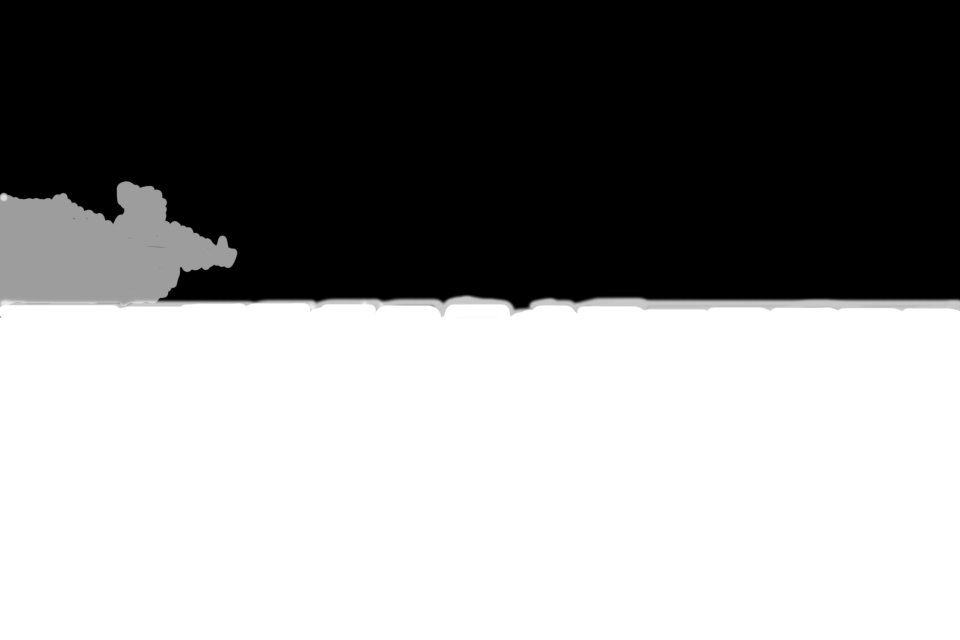
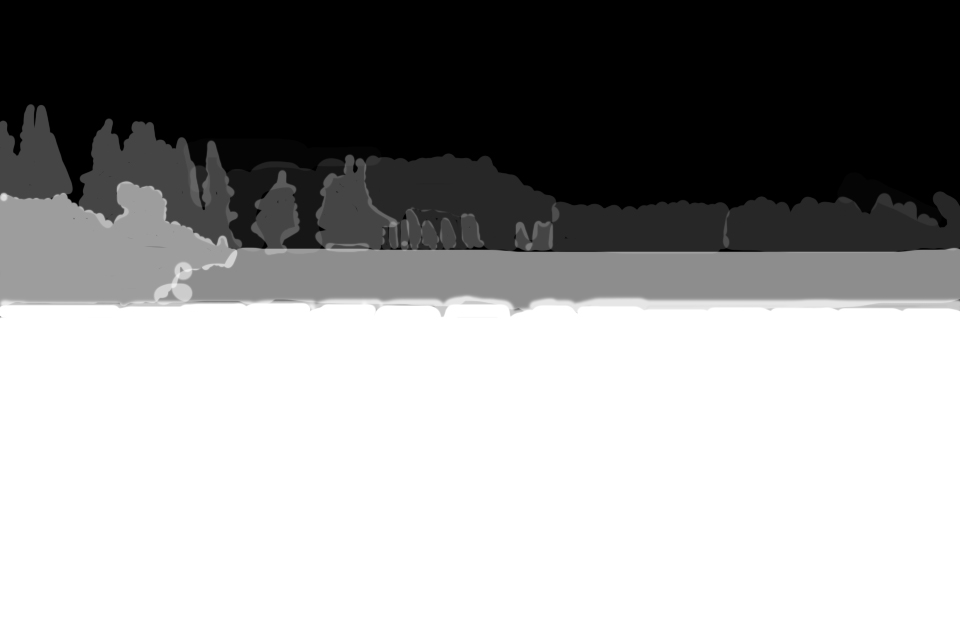
fixed end

Changed region(s): [[0.0, 0.1562, 1.0, 0.5]]

diff --git a/index.html b/index.html
@@ -11,13 +11,13 @@
 	let app=new PIXI.Application({width: window.innerWidth, height: window.innerHeight});
 	document.body.appendChild(app.view);
 
-	let img=new PIXI.Sprite.from("img/paisaje.jpg");
+	let img=new PIXI.Sprite.from("img/chroma.jpg");
 	img.width=window.innerWidth;
 	img.height=window.innerHeight;
 	app.stage.addChild(img);
 	
 	
-	depthMap = new PIXI.Sprite.from("img/paisaje-map2.jpg");
+	depthMap = new PIXI.Sprite.from("img/chroma-map2.png");
 	depthMap.width=window.innerWidth;
 	depthMap.height=window.innerHeight;
 	app.stage.addChild(depthMap);
@@ -27,7 +27,7 @@
 
 	window.onmousemove=function(e){
 		displacementFilter.scale.x=(window.innerWidth /2 - e.clientX) /70;
-		displacementFilter.scale.y=(window.innerHeight /2 - e.clientY) /70;
+		displacementFilter.scale.y=(window.innerHeight /2 - e.clientY)/60;
 	}
 </script>
 </body>
